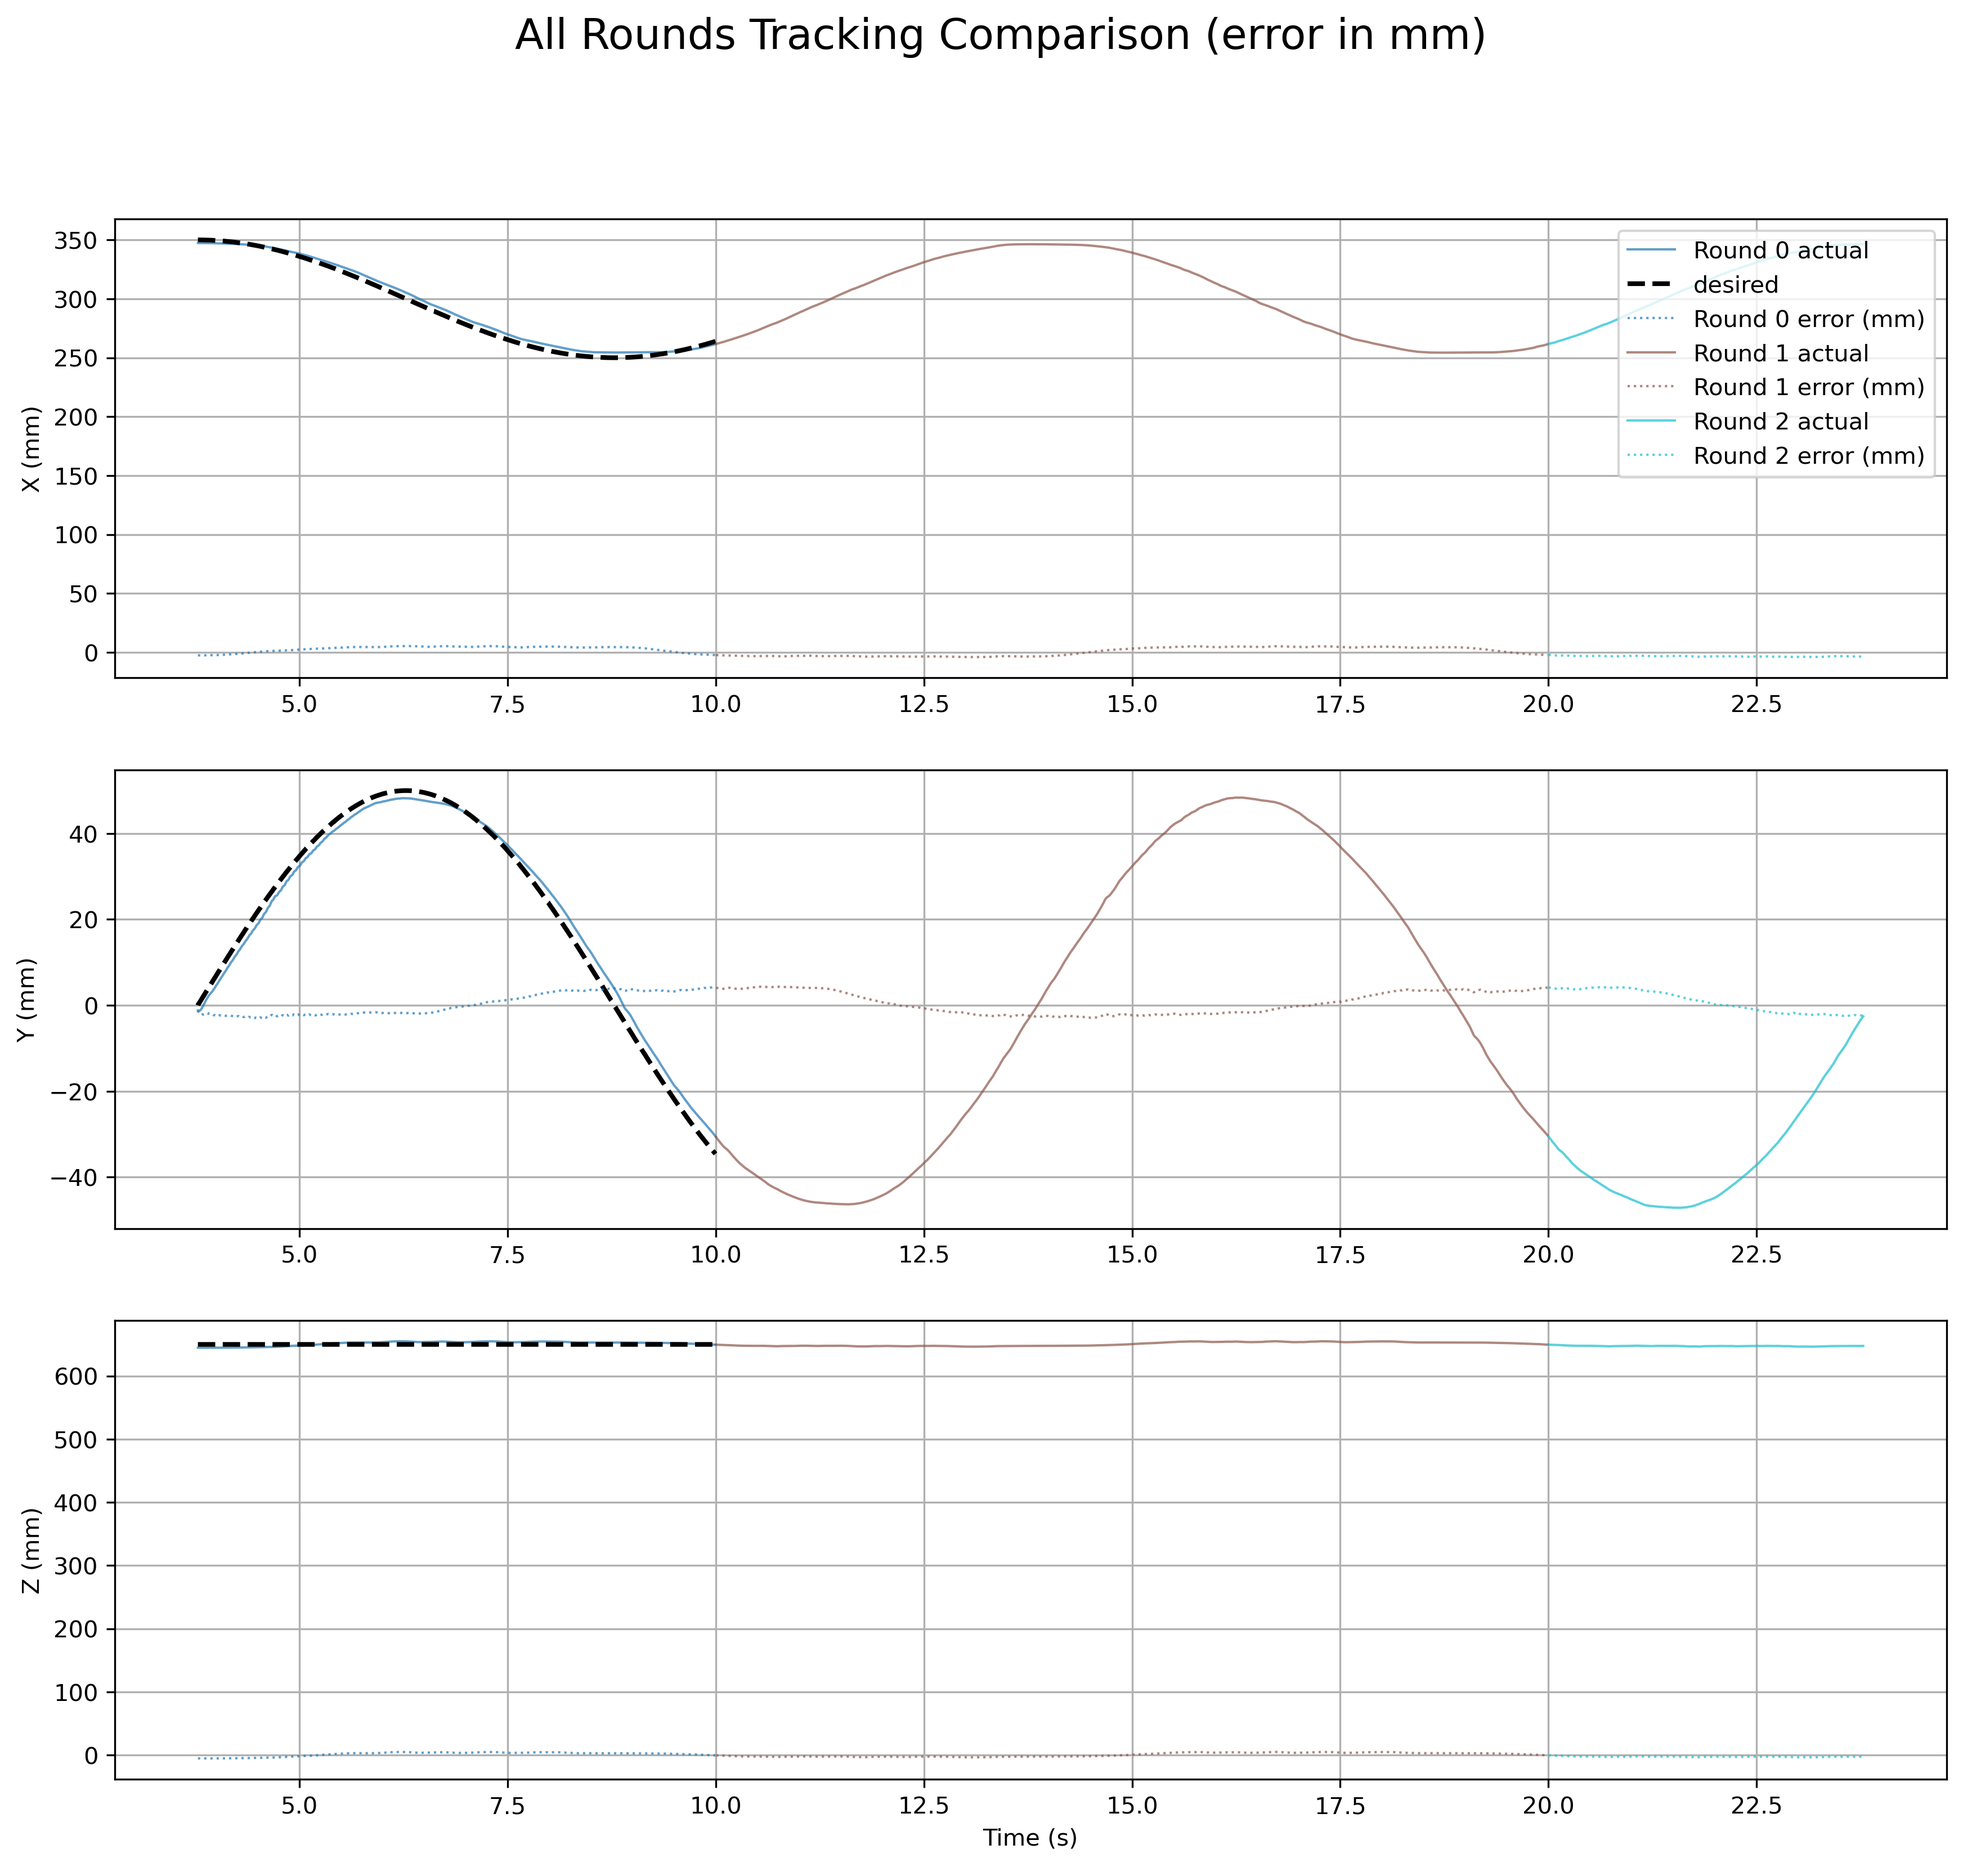
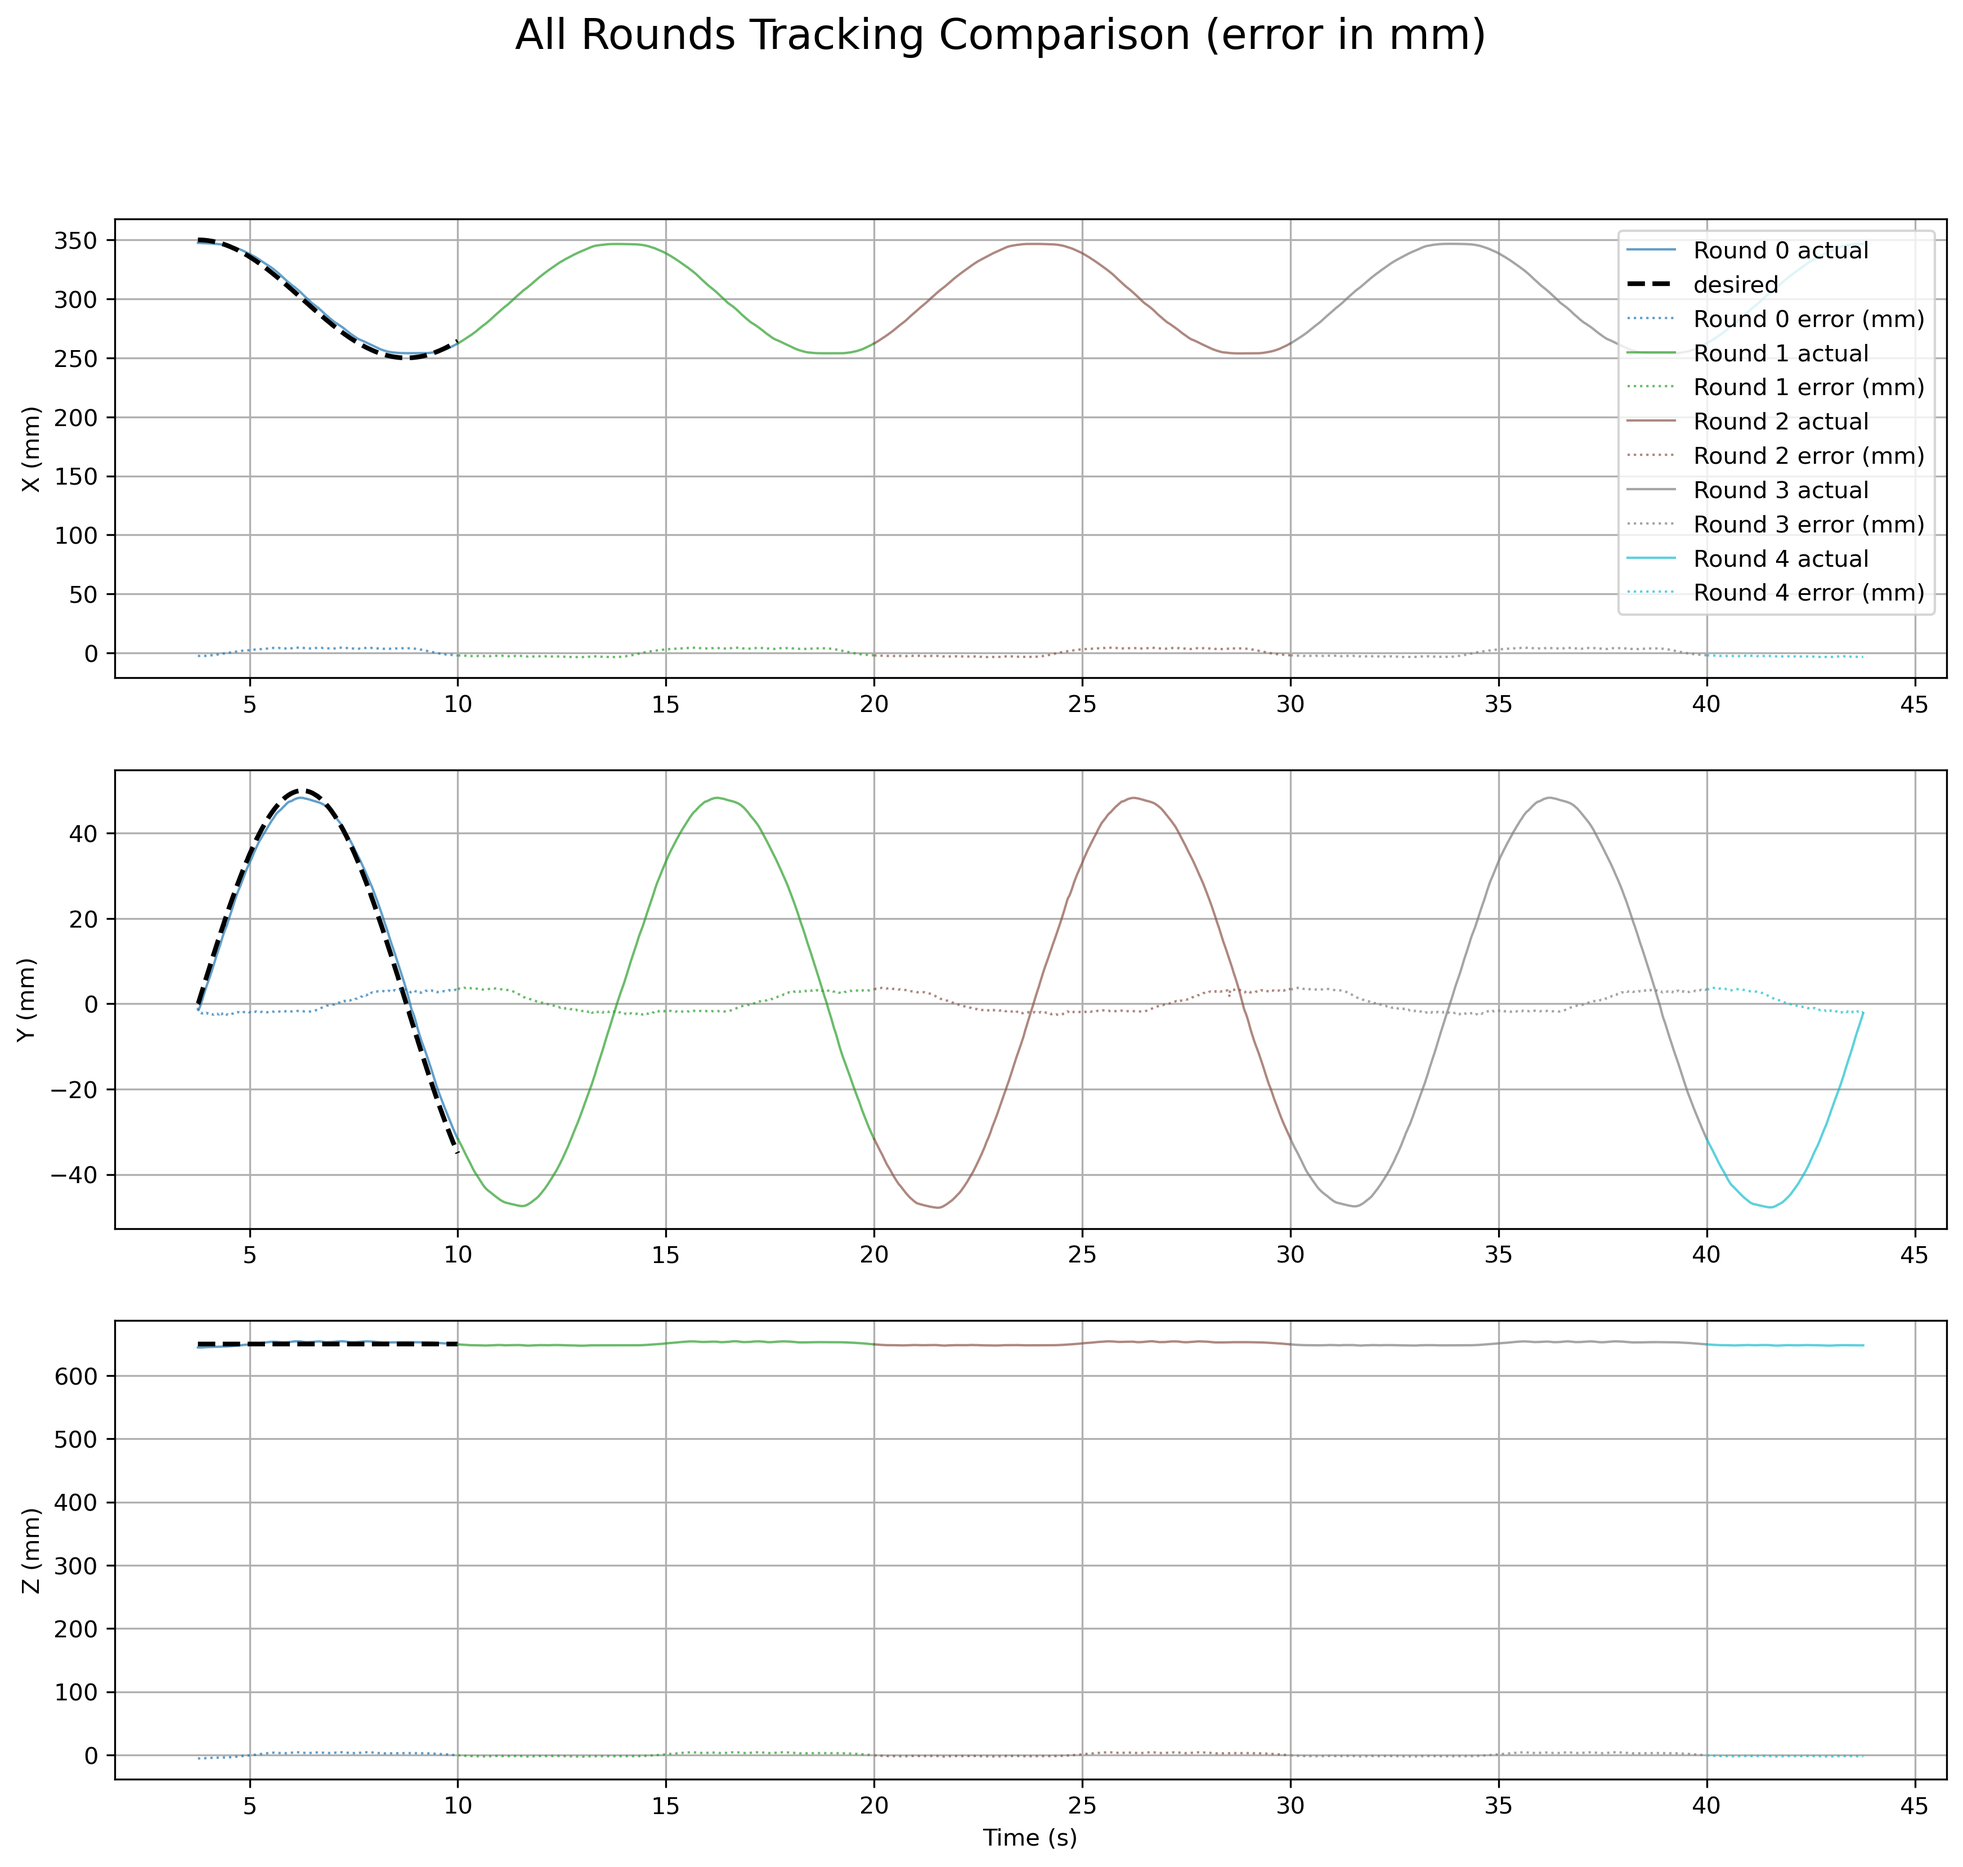
debugging finding out local and cloud plotting points not aligned

diff --git a/new_structure/py_controllers/py_controllers/cartesian_impedance.py b/new_structure/py_controllers/py_controllers/cartesian_impedance.py
@@ -82,6 +82,7 @@ class CartesianImpedanceController(Node):
         self.t_initial = None               # initial time
         self.t_last = None                  # last time
         self.dq_buffer = None               # buffer for joint velocity dq
+        self.dq = None
         self.zero_jacobian_buffer = None    # buffer for zero jacobian matrix in flange frame
         self.jacobian_buffer = None         # buffer for jacobian matrix in flange frame
 
@@ -180,6 +181,9 @@ class CartesianImpedanceController(Node):
         self.future_n_samples = 0         # 未来采样点个数
         self.future_ddq_noise_std = 0.1    # rad/s^2，加速度噪声强度    
 
+        self.gp_send_seq = 0        # 发送给 cloud 的请求编号
+        self.gp_recv_seq = -1      # 最近一次收到的请求编号
+
         # ===== Alpha-Beta filter for tau =====
         self.tau_ab      = np.zeros(7)   # τ̂
         self.dtau_ab     = np.zeros(7)   # τ̇̂
@@ -189,7 +193,7 @@ class CartesianImpedanceController(Node):
 
         #simulated dalay
         self.future_delay = self.declare_parameter(
-            'future_delay', 0.005 # 默认 60 ms
+            'future_delay', 0 # 默认 60 ms
         ).value
 
         self.cloud_delay_steps = 100
@@ -317,6 +321,7 @@ class CartesianImpedanceController(Node):
             q = np.array(msg.position)
             self.q = q
             dq = np.array(msg.velocity)
+            self.dq = dq
             if self.t_initial is None:
                 self.t_initial = t_now
                 self.t_last = t_now
@@ -472,7 +477,7 @@ class CartesianImpedanceController(Node):
 
                 # 2⃣ 融合策略（你原来的 mode 放这里）
                 mode = self.gp_mode
-                mode = "none"
+                mode = "fusion"
 
                 if mode == "local":
                     self.y_hat_combined = self.y_hat_local
@@ -644,9 +649,14 @@ class CartesianImpedanceController(Node):
                     req.dq_future_samples_flat = np.array(dq_samples, dtype=np.float32).reshape(-1).tolist()
                     req.ddq_future_samples_flat = np.array(ddq_samples, dtype=np.float32).reshape(-1).tolist()
 
+                    self.gp_send_seq = self.gp_send_seq+1
+                    req.seq = float(self.gp_send_seq)
+
                     # ⭐⭐⭐ 缺失的关键两行 ⭐⭐⭐
                     future = self.gp_client.call_async(req)
                     future.add_done_callback(self._gp_response_callback)
+                else:
+                    print("service not ready!!!!!!!!!!!!!!!!!")
 
             # publish on topic /effort_command
             self.effort_msg.efforts = tau.tolist()
@@ -715,7 +725,18 @@ class CartesianImpedanceController(Node):
 
             y_cloud = np.array(resp.y_cloud, dtype=float)
             y_mem   = np.array(resp.y_cloud_aggregation, dtype=float)
-
+            
+            print(resp.seq)
+            if resp.seq == self.gp_send_seq:
+                print(1)
+            else:
+                print(0)
+            # self.y_hat_local = self._gp_predict_and_update(
+            #             self.q,
+            #             self.dq,
+            #             self.ddq_des_joint,
+            #             self.tau_residual_filtered,
+            #         )
             # with self._gp_lock:
                 # 1⃣ 保存“最新 cloud（t_now）”
                 # self.y_hat_cloud = y_cloud
@@ -728,7 +749,7 @@ class CartesianImpedanceController(Node):
 
             self.y_hat_cloud_buffer.append({
                 "t": resp.t_target,
-                "y": y_cloud
+                "y": y_mem
             })
 
             # 3⃣ 其他辅助信息
@@ -793,7 +814,7 @@ class CartesianImpedanceController(Node):
         os._exit(0)
 
     def _load_gp_models(self, dir_path="./new_structure/gp/gp_models"):
-        """加载离线训练好的每关节GP，支持高维输入（14或21）"""
+        """加载离线训练好的每关节GP，支持高维输入（14或21）""" 
 
         if not self._ensure_skygp_import():
             self.get_logger().error("[GP] skygp import failed; pickle loading will likely fail.")
@@ -802,6 +823,24 @@ class CartesianImpedanceController(Node):
         abs_dir = os.path.abspath(dir_path)
         self.get_logger().info(f"[GP] 当前工作目录: {cwd}")
         self.get_logger().info(f"[GP] 模型目录绝对路径: {abs_dir}")
+        
+        # ===== 按关节定制 GP 参数（你可以自己改这些值） =====
+        # key = 关节号（1..6），"default" 为所有关节的默认配置
+        per_joint_cfg = {
+            "default": dict(
+                max_data_per_expert=50,
+                nearest_k=4,
+                max_experts=4,
+                timescale=0.03,
+            ),
+            # 举例：如果你想让 6 号关节忘得快一点、专家少一点，可以单独改：
+            6: dict(
+                max_data_per_expert=50,
+                nearest_k=4,
+                max_experts=4,
+                timescale=0.05,
+            ),
+        }
 
         self.gp_models = {}
         loaded = 0
@@ -824,6 +863,31 @@ class CartesianImpedanceController(Node):
                 stats = pack["stats"]   # (Xm, Xs, Ym, Ys)
                 Xm, Xs, Ym, Ys = stats
                 x_dim = int(len(Xm))    # 自动推断 14 或 21 维
+
+                # ===== 在这里覆盖 SkyGP_rBCM 的参数 =====
+                cfg = per_joint_cfg.get(j, per_joint_cfg["default"])
+                try:
+                    # 只有在模型里确实有这些属性时才改，避免旧版本崩溃
+                    if hasattr(model, "max_data_per_expert"):
+                        model.max_data_per_expert = int(cfg["max_data_per_expert"])
+                    if hasattr(model, "nearest_k"):
+                        model.nearest_k = int(cfg["nearest_k"])
+                    if hasattr(model, "max_experts"):
+                        model.max_experts = int(cfg["max_experts"])
+                    if hasattr(model, "timescale"):
+                        model.timescale = float(cfg["timescale"])
+
+                    self.get_logger().info(
+                        f"[GP] joint{j} loaded: x_dim={x_dim}, "
+                        f"max_data_per_expert={getattr(model, 'max_data_per_expert', 'NA')}, "
+                        f"nearest_k={getattr(model, 'nearest_k', 'NA')}, "
+                        f"max_experts={getattr(model, 'max_experts', 'NA')}, "
+                        f"timescale={getattr(model, 'timescale', 'NA')}"
+                    )
+                except Exception as e:
+                    self.get_logger().warn(
+                        f"[GP] joint{j}: override model params failed: {e}"
+                    )
 
                 self.gp_models[j] = {
                     "model": model,

diff --git a/new_structure/py_controllers/py_controllers/gp_server.py b/new_structure/py_controllers/py_controllers/gp_server.py
@@ -146,6 +146,7 @@ class GPServer(Node):
             response.mem_dist = 1e6
 
         response.t_target = request.t_target
+        response.seq = request.seq
         return response
 
 
@@ -299,16 +300,16 @@ class GPServer(Node):
         # key = 关节号（1..6），"default" 为所有关节的默认配置
         per_joint_cfg = {
             "default": dict(
-                max_data_per_expert=200,
+                max_data_per_expert=100,
                 nearest_k=4,
-                max_experts=1000,
+                max_experts=100,
                 timescale=0.03,
             ),
             # 举例：如果你想让 6 号关节忘得快一点、专家少一点，可以单独改：
             6: dict(
-                max_data_per_expert=200,
+                max_data_per_expert=100,
                 nearest_k=4,
-                max_experts=1000,
+                max_experts=100,
                 timescale=0.05,
             ),
         }

diff --git a/plot_data.py b/plot_data.py
@@ -323,11 +323,11 @@ def plot_data_from_csv(csv_filename):
             #     ax.plot(time_history, yh_l, '-', linewidth=1.2, alpha=0.8, label='y_hat_local')
 
             # # 画 cloud
-            if YH_cloud is not None:
-                yh_cl = YH_cloud[:, j]
-                ax.plot(time_history, yh_cl, ':', linewidth=1.2, alpha=0.8, label='cloud')
-                rem = tr - yh_cl
-                ax.plot(time_history, rem, linewidth=1.2, alpha=0.8, label='true - cloud')
+            # if YH_cloud is not None:
+            #     yh_cl = YH_cloud[:, j]
+            #     ax.plot(time_history, yh_cl, ':', linewidth=1.2, alpha=0.8, label='cloud')
+            #     rem = tr - yh_cl
+            #     ax.plot(time_history, rem, linewidth=1.2, alpha=0.8, label='true - cloud')
 
             # if YH_mem is not None:
             #     yh_mem = YH_mem[:, j]

diff --git a/new_structure/gp/skygp.py b/new_structure/gp/skygp.py
@@ -175,7 +175,6 @@ class SkyGP_rBCM:
         self.Y_list.insert(insert_pos, np.zeros((self.y_dim, self.max_data)))
         self.localCount.insert(insert_pos, 0)
         self.expert_centers.insert(insert_pos, np.zeros(self.x_dim))
-        print("inserting expert centers")
         self.drop_centers.insert(insert_pos, np.zeros(self.x_dim))
         self.drop_counts.insert(insert_pos, 0)
         self.L_all.insert(insert_pos, np.zeros((self.max_data, self.max_data)))
@@ -262,7 +261,6 @@ class SkyGP_rBCM:
         self.update_param_incremental(x, y, model)
 
     def add_point(self, x, y):
-            print("max_experts:",self.max_experts)
             x = np.asarray(x)
             y = np.asarray(y).reshape(-1)
             

diff --git a/new_structure/py_controllers/py_controllers/trajectory_publisher.py b/new_structure/py_controllers/py_controllers/trajectory_publisher.py
@@ -83,7 +83,7 @@ class TrajectoryPublisher(Node):
         self.period = 1.0 / self.frequency
         self.last_round = -1
 
-        self.declare_parameter("rounds_per_mode", 2)
+        self.declare_parameter("rounds_per_mode", 4)
         self.rounds_per_mode = self.get_parameter("rounds_per_mode").value
 
         self.declare_parameter("max_rounds", 4)
